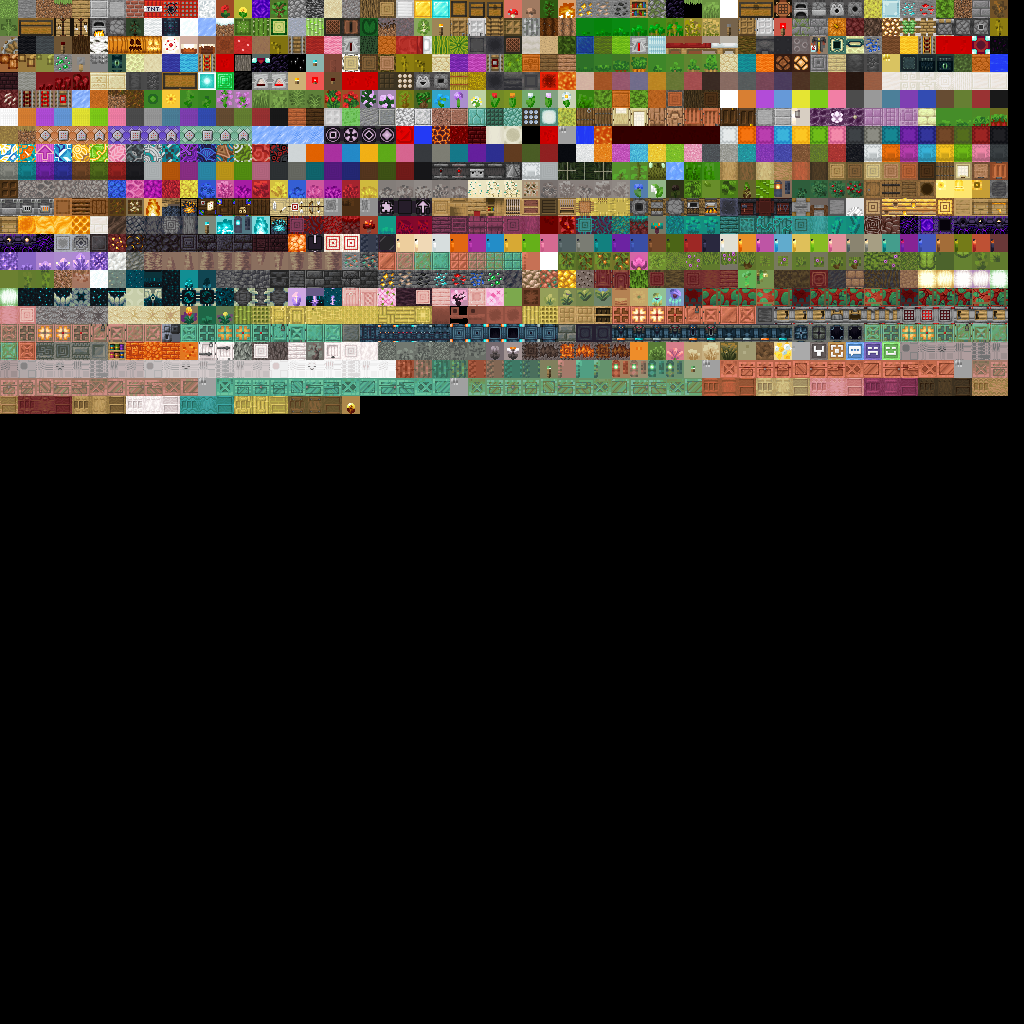
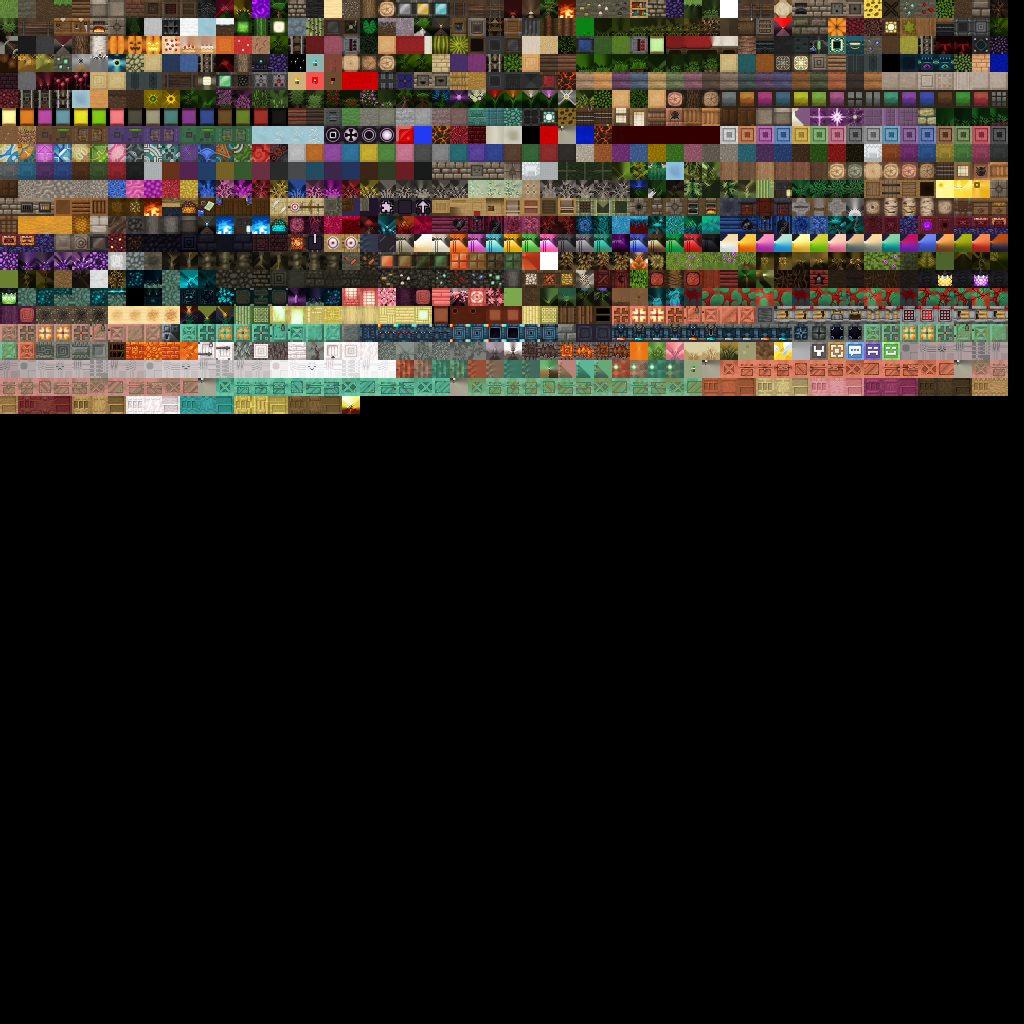
Inapp fixes, change textures

Changed region(s): [[0.0, 0.0, 1.0, 0.4062], [0.3125, 0.375, 0.375, 0.4062], [0.8125, 0.3438, 0.8438, 0.375]]

diff --git a/Assets/_Project/Scripts/Architecture/Services/GamePushPurchaseService.cs b/Assets/_Project/Scripts/Architecture/Services/GamePushPurchaseService.cs
@@ -12,6 +12,8 @@ namespace _Project.Scripts.Architecture.Services
     public class GamePushPurchaseService : IPurchaseService
     {
         private const int FetchTimeoutSeconds = 10;
+        private const string YanCurrency = "YAN";
+        private const string YanSprite = "<sprite=\"yan\" name=\"yan\">";
 
         private readonly ISaveService _saveService;
 
@@ -242,12 +244,14 @@ namespace _Project.Scripts.Architecture.Services
             return keys;
         }
 
-        public string GetPrice(string productId, string fallback)
+        // Цена только из ответа платформы: любой локальный дефолт разъезжается с Консолью
+        // разработчика, а это замечание модерации (Yandex п.1.13.5, «некорректная цена»).
+        public string GetPrice(string productId)
         {
             if (string.IsNullOrEmpty(productId))
             {
-                Debug.LogWarning($"[GamePushPurchaseService] GetPrice: empty productId, using fallback '{fallback}'");
-                return fallback;
+                Debug.LogWarning("[GamePushPurchaseService] GetPrice: empty productId");
+                return string.Empty;
             }
 
             if (_productsByKey.TryGetValue(productId, out var product))
@@ -255,15 +259,24 @@ namespace _Project.Scripts.Architecture.Services
                 // Валюта берётся автоматически из свойств продукта (SDK), не хардкодится
                 // (требование Yandex п.3.8: название/иконка валюты — из IProduct).
                 string priceStr = product.price.ToString();
-                string symbol = product.currencySymbol;
+                string result = $"{priceStr} {GetCurrencyLabel(product)}".TrimEnd();
 
-                string result = string.IsNullOrEmpty(symbol) ? priceStr : $"{priceStr} {symbol}";
-                Debug.Log($"[GamePushPurchaseService] GetPrice: found '{productId}' -> {result}");
+                Debug.Log($"[GamePushPurchaseService] GetPrice: found '{productId}' -> {result} " +
+                          $"(currency='{product.currency}', symbol='{product.currencySymbol}')");
                 return result;
             }
 
-            Debug.LogWarning($"[GamePushPurchaseService] GetPrice: '{productId}' not found in cache ({_productsByKey.Count} products), using fallback '{fallback}'");
-            return fallback;
+            Debug.LogWarning($"[GamePushPurchaseService] GetPrice: '{productId}' not found in cache ({_productsByKey.Count} products)");
+            return string.Empty;
+        }
+
+        // Портальная валюта Яндекса рисуется иконкой (п.1.13.2), текстовый символ у неё пустой.
+        private static string GetCurrencyLabel(FetchProducts product)
+        {
+            if (string.Equals(product.currency, YanCurrency, StringComparison.OrdinalIgnoreCase))
+                return YanSprite;
+
+            return string.IsNullOrEmpty(product.currencySymbol) ? product.currency : product.currencySymbol;
         }
 
         public void Purchase(ShopItemData item, Action onSuccess, Action onFailure)

diff --git a/Assets/_Project/Scripts/Gameplay/UI/Shop/ShopScreenView.cs b/Assets/_Project/Scripts/Gameplay/UI/Shop/ShopScreenView.cs
@@ -45,6 +45,8 @@ namespace _Project.Scripts.Gameplay.UI.Shop
         private ShopScreenController _controller;
         private IPlayerProgressService _progress;
         private IAudioService _audioService;
+        private ShopCardUI _removeAdsCard;
+        private GameObject _removeAdsRoot;
 
         public event Action RemoveAdsClicked;
         public event Action ViewEnabled;
@@ -59,6 +61,17 @@ namespace _Project.Scripts.Gameplay.UI.Shop
         {
             _progress = progress;
             _audioService = audioService;
+
+            if (_removeAdsButton != null)
+            {
+                _removeAdsCard = _removeAdsButton.GetComponentInParent<ShopCardUI>(true);
+
+                // Прячем всю секцию (карточка + рамка + заголовок), а не одну кнопку:
+                // NoAds покупается один раз и после выдачи награды не должен маячить в магазине.
+                _removeAdsRoot = _removeAdsCard != null
+                    ? _removeAdsCard.transform.parent.gameObject
+                    : _removeAdsButton.gameObject;
+            }
 
             _progress.OnGoldChanged += RefreshGold;
             RefreshGold();
@@ -152,14 +165,20 @@ namespace _Project.Scripts.Gameplay.UI.Shop
 
         public void SetRemoveAdsVisible(bool visible)
         {
-            if (_removeAdsButton != null)
-                _removeAdsButton.gameObject.SetActive(visible);
+            if (_removeAdsRoot != null)
+                _removeAdsRoot.SetActive(visible);
         }
 
         public void SetRemoveAdsInteractable(bool interactable)
         {
             if (_removeAdsButton != null)
                 _removeAdsButton.interactable = interactable;
+        }
+
+        public void SetRemoveAdsCard(string name, Sprite icon, string price)
+        {
+            if (_removeAdsCard != null)
+                _removeAdsCard.SetContent(name, icon, price);
         }
 
         public void ShowPurchaseSuccessItem(string itemName, Sprite icon)

diff --git a/Assets/_Project/Scripts/Gameplay/UI/Shop/ShopScreenController.cs b/Assets/_Project/Scripts/Gameplay/UI/Shop/ShopScreenController.cs
@@ -35,6 +35,7 @@ namespace _Project.Scripts.Gameplay.UI.Shop
 
             _progress.OnGoldChanged += ScheduleRebuild;
             _progress.OnOwnedChanged += ScheduleRebuild;
+            _progress.OnNoAdsChanged += ScheduleRebuild;
 
             FindRemoveAdsItem();
             Rebuild();
@@ -56,6 +57,7 @@ namespace _Project.Scripts.Gameplay.UI.Shop
 
             _progress.OnGoldChanged -= ScheduleRebuild;
             _progress.OnOwnedChanged -= ScheduleRebuild;
+            _progress.OnNoAdsChanged -= ScheduleRebuild;
         }
 
         private void ScheduleRebuild() => _dirty = true;
@@ -121,7 +123,7 @@ namespace _Project.Scripts.Gameplay.UI.Shop
             foreach (var hero in _catalog.UniqueHeroes)
             {
                 var portrait = _previewService.GetPortrait(hero, 0);
-                var price = _purchaseService.GetPrice(hero.YandexProductId, hero.PriceLabel);
+                var price = _purchaseService.GetPrice(hero.YandexProductId);
                 _view.AddUnitCard(hero.Name, portrait, price, true, () => BuyUnit(hero));
             }
         }
@@ -136,7 +138,7 @@ namespace _Project.Scripts.Gameplay.UI.Shop
                 if (item.RewardType == ShopItemRewardType.NoAds)
                     continue;
 
-                var price = _purchaseService.GetPrice(item.YandexProductId, item.PriceLabel);
+                var price = _purchaseService.GetPrice(item.YandexProductId);
                 _view.AddItemCard(item.Name, item.Icon, price, () => BuyItem(item));
             }
         }
@@ -175,6 +177,14 @@ namespace _Project.Scripts.Gameplay.UI.Shop
 
             _view.SetRemoveAdsVisible(hasRemoveAds && !alreadyPurchased);
             _view.SetRemoveAdsInteractable(hasRemoveAds && !alreadyPurchased);
+
+            if (hasRemoveAds)
+            {
+                _view.SetRemoveAdsCard(
+                    _removeAdsItem.Name,
+                    _removeAdsItem.Icon,
+                    _purchaseService.GetPrice(_removeAdsItem.YandexProductId));
+            }
         }
     }
 }

diff --git a/Assets/_Project/Scripts/Gameplay/Services/PlayerProgressService.cs b/Assets/_Project/Scripts/Gameplay/Services/PlayerProgressService.cs
@@ -53,6 +53,7 @@ namespace _Project.Scripts.Gameplay.Services
         event Action OnGoldChanged;
         event Action OnArmyChanged;
         event Action OnOwnedChanged;
+        event Action OnNoAdsChanged;
     }
 
     public class PlayerProgressService : IPlayerProgressService
@@ -73,6 +74,7 @@ namespace _Project.Scripts.Gameplay.Services
         public event Action OnGoldChanged;
         public event Action OnArmyChanged;
         public event Action OnOwnedChanged;
+        public event Action OnNoAdsChanged;
 
         public PlayerProgressService(ISaveService saveService, IPurchaseService purchaseService)
         {
@@ -100,7 +102,10 @@ namespace _Project.Scripts.Gameplay.Services
                 _saveService.Save(_saveData);
             }
 
-            Debug.Log($"[PlayerProgressService] Initialized. Gold: {Gold}, Owned: {_saveData.OwnedUnits.Count}, Army: {_saveData.ArmyInstanceIds.Count}, Slots: {ArmySlots}");
+            Debug.Log($"[PlayerProgressService] Initialized. Gold: {Gold}, Owned: {_saveData.OwnedUnits.Count}, Army: {_saveData.ArmyInstanceIds.Count}, Slots: {ArmySlots}, NoAds: {NoAds}");
+
+            if (_saveData.NoAds)
+                OnNoAdsChanged?.Invoke();
 
             // Незакрытые покупки (оплачено, но не выдано — вкладку закрыли до consume): выдать + потребить.
             // Не блокируем загрузку меню: платформа может отвечать долго, а GameReady ждать нельзя.
@@ -301,6 +306,7 @@ namespace _Project.Scripts.Gameplay.Services
                 case ShopItemRewardType.NoAds:
                     _saveData.NoAds = true;
                     Save();
+                    OnNoAdsChanged?.Invoke();
                     break;
             }
         }

diff --git a/Assets/_Project/Scripts/Architecture/Services/AdService.cs b/Assets/_Project/Scripts/Architecture/Services/AdService.cs
@@ -2,6 +2,7 @@ using System;
 using _Project.Scripts.Gameplay.Services;
 using Cysharp.Threading.Tasks;
 using GamePush;
+using UnityEngine;
 
 namespace _Project.Scripts.Architecture.Services
 {
@@ -22,11 +23,34 @@ namespace _Project.Scripts.Architecture.Services
         {
             _progress = progress;
             _timeScaleService = timeScaleService;
+
+            // Подписка в конструкторе, а не в Initialize: порядок Initialize сервисов в DI не
+            // гарантирован, и NoAds из загруженного сейва мог бы прилететь до неё.
+            _progress.OnNoAdsChanged += CloseSticky;
+
+            GP_Ads.OnStickyStart += CloseStickyIfNoAds;
+            GP_Ads.OnStickyRender += CloseStickyIfNoAds;
+            GP_Ads.OnStickyRefresh += CloseStickyIfNoAds;
         }
 
         public UniTask Initialize()
         {
+            CloseStickyIfNoAds();
             return UniTask.CompletedTask;
+        }
+
+        private void CloseStickyIfNoAds()
+        {
+            if (_progress.NoAds)
+                CloseSticky();
+        }
+
+        private void CloseSticky()
+        {
+#if !UNITY_EDITOR
+            Debug.Log("[AdService] NoAds active, closing sticky banner");
+            GP_Ads.CloseSticky();
+#endif
         }
 
         public void ShowInterstitial(Action onComplete = null)

diff --git a/Assets/_Project/Scripts/Dev/DevResetSaveButton.cs b/Assets/_Project/Scripts/Dev/DevResetSaveButton.cs
@@ -1,0 +1,40 @@
+using _Project.Scripts.Architecture;
+using _Project.Scripts.Architecture.Services.Save;
+using UnityEngine;
+
+namespace _Project.Scripts.Dev
+{
+    public class DevResetSaveButton : MonoBehaviour
+    {
+        private const float ButtonWidth = 200f;
+        private const float ButtonHeight = 50f;
+        private const float Margin = 10f;
+
+        private string _status;
+
+        private void OnGUI()
+        {
+            var buttonRect = new Rect(Margin, Margin, ButtonWidth, ButtonHeight);
+
+            if (GUI.Button(buttonRect, "RESET SAVE"))
+                ResetSave();
+
+            if (!string.IsNullOrEmpty(_status))
+                GUI.Label(new Rect(Margin, Margin + ButtonHeight + 4f, 420f, 24f), _status);
+        }
+
+        private void ResetSave()
+        {
+            var saveService = Project.Get<ISaveService>();
+
+            if (saveService == null)
+            {
+                _status = "SaveService not resolved";
+                return;
+            }
+
+            saveService.DeleteSave();
+            _status = "Save deleted. Reload the page (F5) to start clean.";
+        }
+    }
+}

diff --git a/Assets/_Project/Scripts/BootStrap.cs b/Assets/_Project/Scripts/BootStrap.cs
@@ -1,4 +1,5 @@
 using _Project.Scripts.Architecture;
+using _Project.Scripts.Dev;
 using UnityEngine;
 
 namespace _Project.Scripts
@@ -6,6 +7,9 @@ namespace _Project.Scripts
     public class BootStrap : MonoBehaviour
     {
         private static BootStrap _instance;
+
+        [SerializeField]
+        private bool _showResetSaveButton = true;
 
         private async void Awake()
         {
@@ -20,6 +24,10 @@ namespace _Project.Scripts
             _instance = this;
             DontDestroyOnLoad(gameObject);
             await Project.Initialize();
+
+            // Тестовая кнопка. Работает и в обычном WebGL-билде — снять галку перед релизом.
+            if (_showResetSaveButton)
+                gameObject.AddComponent<DevResetSaveButton>();
         }
 
         private void OnDestroy()

diff --git a/Assets/_Project/Scripts/Gameplay/UI/Shop/ShopCardUI.cs b/Assets/_Project/Scripts/Gameplay/UI/Shop/ShopCardUI.cs
@@ -35,15 +35,20 @@ namespace _Project.Scripts.Gameplay.UI.Shop
 
         public void Init(string itemName, Sprite icon, string price, Action onClick)
         {
-            _nameLabel.text = itemName;
             _onClick = onClick;
+            SetContent(itemName, icon, price);
+        }
+
+        public void SetContent(string itemName, Sprite icon, string price)
+        {
+            if (_nameLabel != null)
+                _nameLabel.text = itemName;
 
             if (_iconImage != null && icon != null)
                 _iconImage.sprite = icon;
 
             if (_priceLabel != null)
                 _priceLabel.text = price;
-
         }
 
         private void HandleClick()

diff --git a/Assets/_Project/Scripts/Architecture/Services/IPurchaseService.cs b/Assets/_Project/Scripts/Architecture/Services/IPurchaseService.cs
@@ -26,7 +26,7 @@ namespace _Project.Scripts.Architecture.Services
     {
         void Purchase(ShopItemData item, Action onSuccess, Action onFailure);
         void Purchase(CharacterData unit, Action onSuccess, Action onFailure);
-        string GetPrice(string productId, string fallback);
+        string GetPrice(string productId);
 
         /// <summary>
         /// Обрабатывает незакрытые покупки платформы (оплачено, но не выдано/не потреблено —

diff --git a/Assets/_Project/Scripts/Gameplay/UI/Shop/IShopScreenView.cs b/Assets/_Project/Scripts/Gameplay/UI/Shop/IShopScreenView.cs
@@ -13,6 +13,7 @@ namespace _Project.Scripts.Gameplay.UI.Shop
         void AddItemCard(string name, Sprite icon, string price, Action onBuy);
         void SetRemoveAdsVisible(bool visible);
         void SetRemoveAdsInteractable(bool interactable);
+        void SetRemoveAdsCard(string name, Sprite icon, string price);
         void ShowPurchaseSuccessItem(string itemName, Sprite icon);
         void ShowPurchaseSuccessUnit(string unitName, RenderTexture portrait);
     }

diff --git a/Assets/_Project/Scripts/Gameplay/Character/Data/CharacterData.cs b/Assets/_Project/Scripts/Gameplay/Character/Data/CharacterData.cs
@@ -33,9 +33,6 @@ namespace _Project.Scripts.Gameplay.Character.Data
         [field: SerializeField]
         public string YandexProductId { get; private set; }
 
-        [field: SerializeField]
-        public string PriceLabel { get; private set; }
-
         [field: Header("Tiers")]
         [field: SerializeField]
         public TierData[] Tiers { get; private set; }

diff --git a/Assets/_Project/Scripts/Gameplay/Character/Data/ShopItemData.cs b/Assets/_Project/Scripts/Gameplay/Character/Data/ShopItemData.cs
@@ -26,9 +26,6 @@ namespace _Project.Scripts.Gameplay.Character.Data
         public string Description { get; private set; }
 
         [field: SerializeField]
-        public string PriceLabel { get; private set; }
-
-        [field: SerializeField]
         public ShopItemRewardType RewardType { get; private set; }
 
         [field: SerializeField]
